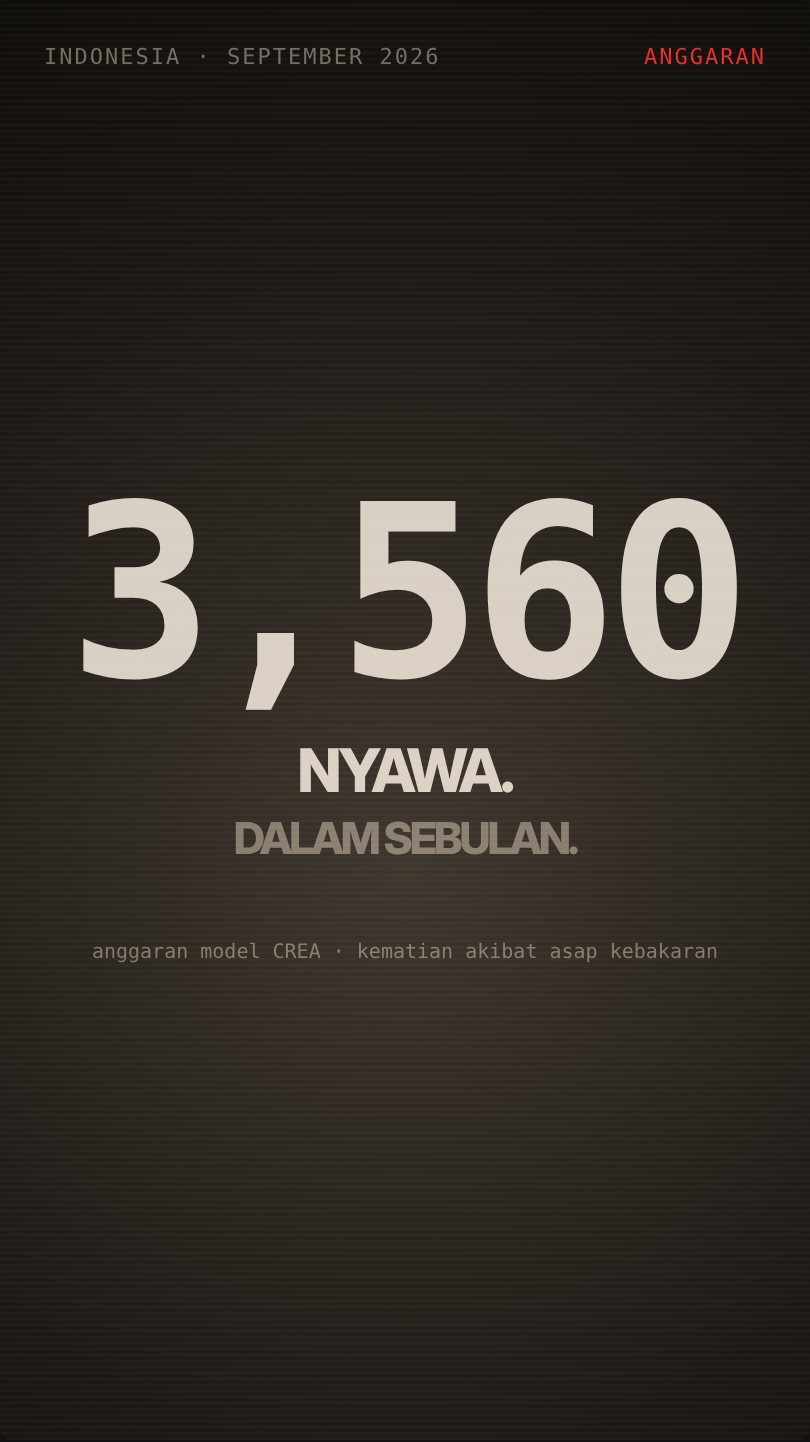
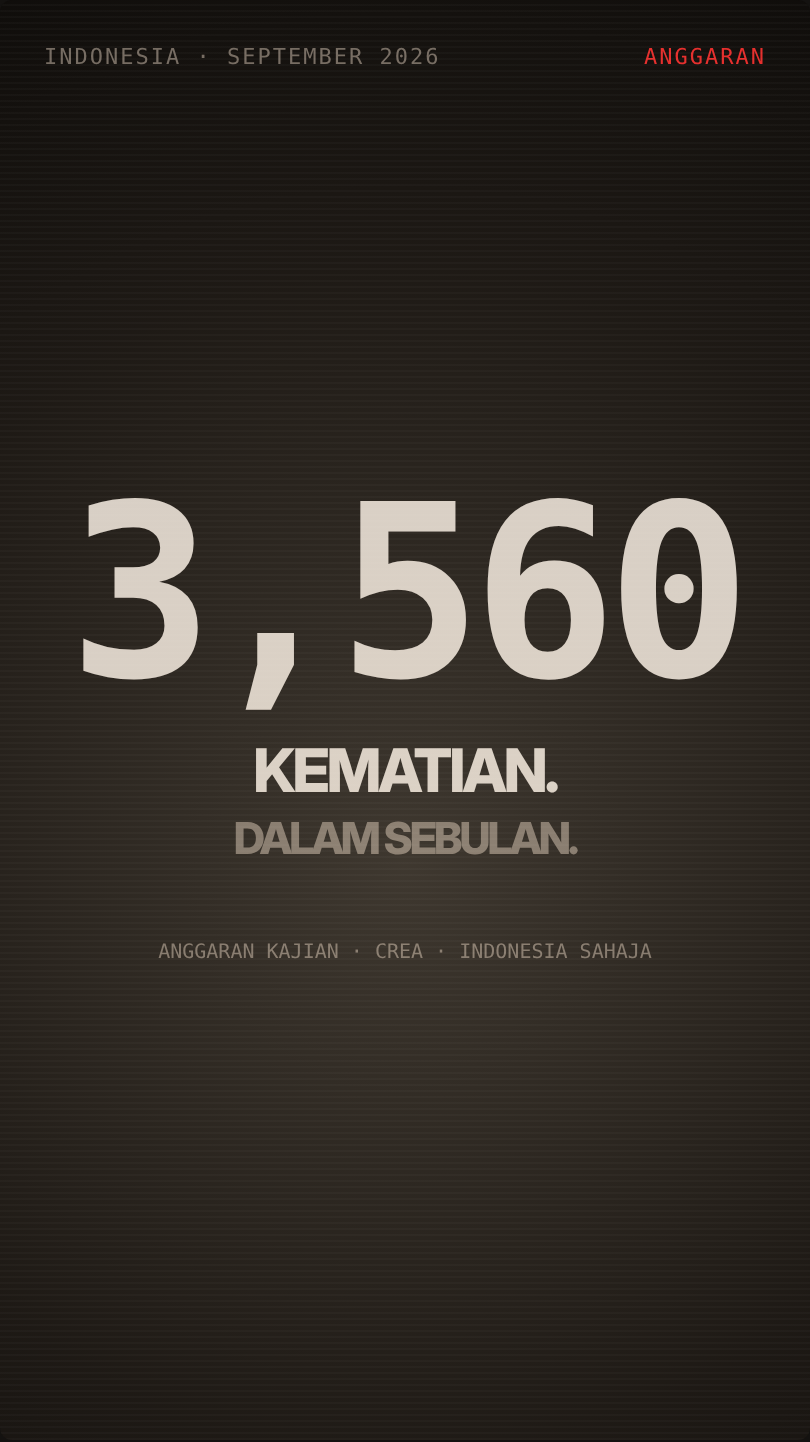
jerebu-video: soften death-toll line to 'study estimates' (CREA)
Claude-Session: https://claude.ai/code/session_01GRVCpXNMUgY5CmxdQVzPuA

diff --git a/jerebu-video/boards/storyboard.html b/jerebu-video/boards/storyboard.html
@@ -119,12 +119,12 @@ html:`<div class="f"><div class="hud"><span>KAWASAN PEMULIHARAAN · 2,330 HA</sp
 <div style="position:absolute;right:30px;top:470px;font:800 140px 'Inter Display';color:var(--ember);opacity:.9">?</div>
 ${hazeL(.1)}</div>`});
 
-S.push({t:"08 · 0:48–0:53 · NYAWA",vo:"“Di Indonesia, asap ni dianggarkan meragut tiga ribu lima ratus nyawa. Dalam bulan September saja.”",
+S.push({t:"08 · 0:48–0:53 · NYAWA",vo:"“Satu kajian menganggarkan, asap ni dikaitkan dengan tiga ribu lima ratus kematian di Indonesia. Dalam bulan September saja.”",
 fx:"Kaunter 0 → 3,560 perlahan dan berat. Label kecil 'anggaran CREA'. Kabus paling tebal di sini.",
 html:`<div class="f"><div class="hud"><span>INDONESIA · SEPTEMBER 2026</span><span style="color:var(--bhy)">ANGGARAN</span></div>
-<div class="ctr"><div class="big" style="font-size:120px;color:var(--ink)">3,560</div><div class="disp" style="font-size:30px;margin-top:14px">NYAWA.</div>
+<div class="ctr"><div class="big" style="font-size:120px;color:var(--ink)">3,560</div><div class="disp" style="font-size:30px;margin-top:14px">KEMATIAN.</div>
 <div class="disp" style="font-size:22px;color:var(--dim);margin-top:10px">DALAM SEBULAN.</div>
-<div class="mono" style="font-size:10px;color:var(--dim);margin-top:40px">anggaran model CREA · kematian akibat asap kebakaran</div></div>
+<div class="mono" style="font-size:10px;color:var(--dim);margin-top:40px">ANGGARAN KAJIAN · CREA · INDONESIA SAHAJA</div></div>
 ${hazeL(.3)}</div>`});
 
 S.push({t:"09 · 0:53–1:01 · SIAPA BAYAR?",vo:"“Siapa bayar? Singapura dah hantar notis kepada sepuluh syarikat. Denda sampai seratus ribu dolar sehari. Tapi sejak 2014… belum ada satu pun syarikat didenda.”",

diff --git a/jerebu-video/SCRIPT.md b/jerebu-video/SCRIPT.md
@@ -1,4 +1,4 @@
-# Skrip VO: "IPU 519" (draf 1)
+# Skrip VO: "IPU 519" (draf 2)
 
 Gaya READOUT. Nada: buka dengan sindiran yang tajam, lepas tu jadi serius dan sebak di bahagian haiwan, dan tutup dengan berat.
 Anggaran: ~165 patah perkataan, lebih kurang 60–65 saat.
@@ -12,13 +12,13 @@ Anggaran: ~165 patah perkataan, lebih kurang 60–65 saat.
 | 05 | Kita? Sekolah ditutup. Kita pakai topeng. Kita duduk dalam rumah. **Kita boleh lari.** | Ikon sekolah, topeng, rumah · KITA BOLEH LARI. |
 | 06 | Tapi mereka… tak boleh. Hampir tiga ratus haiwan liar terpaksa diselamatkan, sembilan puluh enam daripadanya orangutan. Ada yang tak sempat: bekantan, ular sawa, king kobra… ditemui mati terbakar. | Siluet orangutan · **290** HAIWAN · **96** ORANGUTAN · senarai mati terbakar |
 | 07 | Di satu kawasan, dianggarkan dua ratus orangutan pernah tinggal. Selepas api datang… tiada siapa tahu berapa yang tinggal. | 200 titik ➜ pudar ➜ **?** |
-| 08 | Di Indonesia, asap ni dianggarkan meragut tiga ribu lima ratus nyawa. Dalam bulan September saja. | **3,560** NYAWA · SEPTEMBER · (anggaran) |
+| 08 | Satu kajian menganggarkan, asap ni dikaitkan dengan tiga ribu lima ratus kematian di Indonesia. Dalam bulan September saja. | **3,560** KEMATIAN · INDONESIA · SEPTEMBER · label ANGGARAN KAJIAN · CREA |
 | 09 | Siapa bayar? Singapura dah hantar notis kepada sepuluh syarikat. Denda sampai seratus ribu dolar sehari. Tapi sejak 2014… belum ada satu pun syarikat didenda. | SIAPA BAYAR? · 10 SYARIKAT · S$100,000/HARI · cop **0 DIDENDA** |
 | 10 | Hari ni langit dah cerah. Tapi gambut boleh terus membara… di bawah tanah. Bila asap datang lagi, kita boleh lari. **Mereka tak boleh.** | IPU turun ke "baik" · bara di bawah tanah · KITA BOLEH LARI. ~~MEREKA~~ TAK BOLEH. |
 
 ## Versi satu perenggan (untuk ElevenLabs)
 
-Kami bukan hantar asap saja. Bila tiada asap… kami hantar oksigen. Itu kata seorang pegawai Indonesia. Masa tu, bacaan IPU di Serian, Sarawak… cecah lima ratus sembilan belas. Darurat diisytiharkan. Puncanya? Hampir dua juta hektar hutan Indonesia terbakar. Tiga puluh lapan peratus lebih teruk daripada 2019. Dan di Kalimantan, tujuh puluh empat peratus titik api… berada dalam kawasan konsesi syarikat. Kita? Sekolah ditutup. Kita pakai topeng. Kita duduk dalam rumah. Kita boleh lari. Tapi mereka… tak boleh. Hampir tiga ratus haiwan liar terpaksa diselamatkan, sembilan puluh enam daripadanya orangutan. Ada yang tak sempat: bekantan, ular sawa, king kobra… ditemui mati terbakar. Di satu kawasan, dianggarkan dua ratus orangutan pernah tinggal. Selepas api datang… tiada siapa tahu berapa yang tinggal. Di Indonesia, asap ni dianggarkan meragut tiga ribu lima ratus nyawa. Dalam bulan September saja. Siapa bayar? Singapura dah hantar notis kepada sepuluh syarikat. Denda sampai seratus ribu dolar sehari. Tapi sejak 2014… belum ada satu pun syarikat didenda. Hari ni langit dah cerah. Tapi gambut boleh terus membara… di bawah tanah. Bila asap datang lagi, kita boleh lari. Mereka tak boleh.
+Kami bukan hantar asap saja. Bila tiada asap… kami hantar oksigen. Itu kata seorang pegawai Indonesia. Masa tu, bacaan IPU di Serian, Sarawak… cecah lima ratus sembilan belas. Darurat diisytiharkan. Puncanya? Hampir dua juta hektar hutan Indonesia terbakar. Tiga puluh lapan peratus lebih teruk daripada 2019. Dan di Kalimantan, tujuh puluh empat peratus titik api… berada dalam kawasan konsesi syarikat. Kita? Sekolah ditutup. Kita pakai topeng. Kita duduk dalam rumah. Kita boleh lari. Tapi mereka… tak boleh. Hampir tiga ratus haiwan liar terpaksa diselamatkan, sembilan puluh enam daripadanya orangutan. Ada yang tak sempat: bekantan, ular sawa, king kobra… ditemui mati terbakar. Di satu kawasan, dianggarkan dua ratus orangutan pernah tinggal. Selepas api datang… tiada siapa tahu berapa yang tinggal. Satu kajian menganggarkan, asap ni dikaitkan dengan tiga ribu lima ratus kematian di Indonesia. Dalam bulan September saja. Siapa bayar? Singapura dah hantar notis kepada sepuluh syarikat. Denda sampai seratus ribu dolar sehari. Tapi sejak 2014… belum ada satu pun syarikat didenda. Hari ni langit dah cerah. Tapi gambut boleh terus membara… di bawah tanah. Bila asap datang lagi, kita boleh lari. Mereka tak boleh.
 
 ## Semakan fakta
 - Petikan "oksigen": Syahganda Nainggolan, video Kompas, ~10 Okt 2026 (Malay Mail, The Star).
